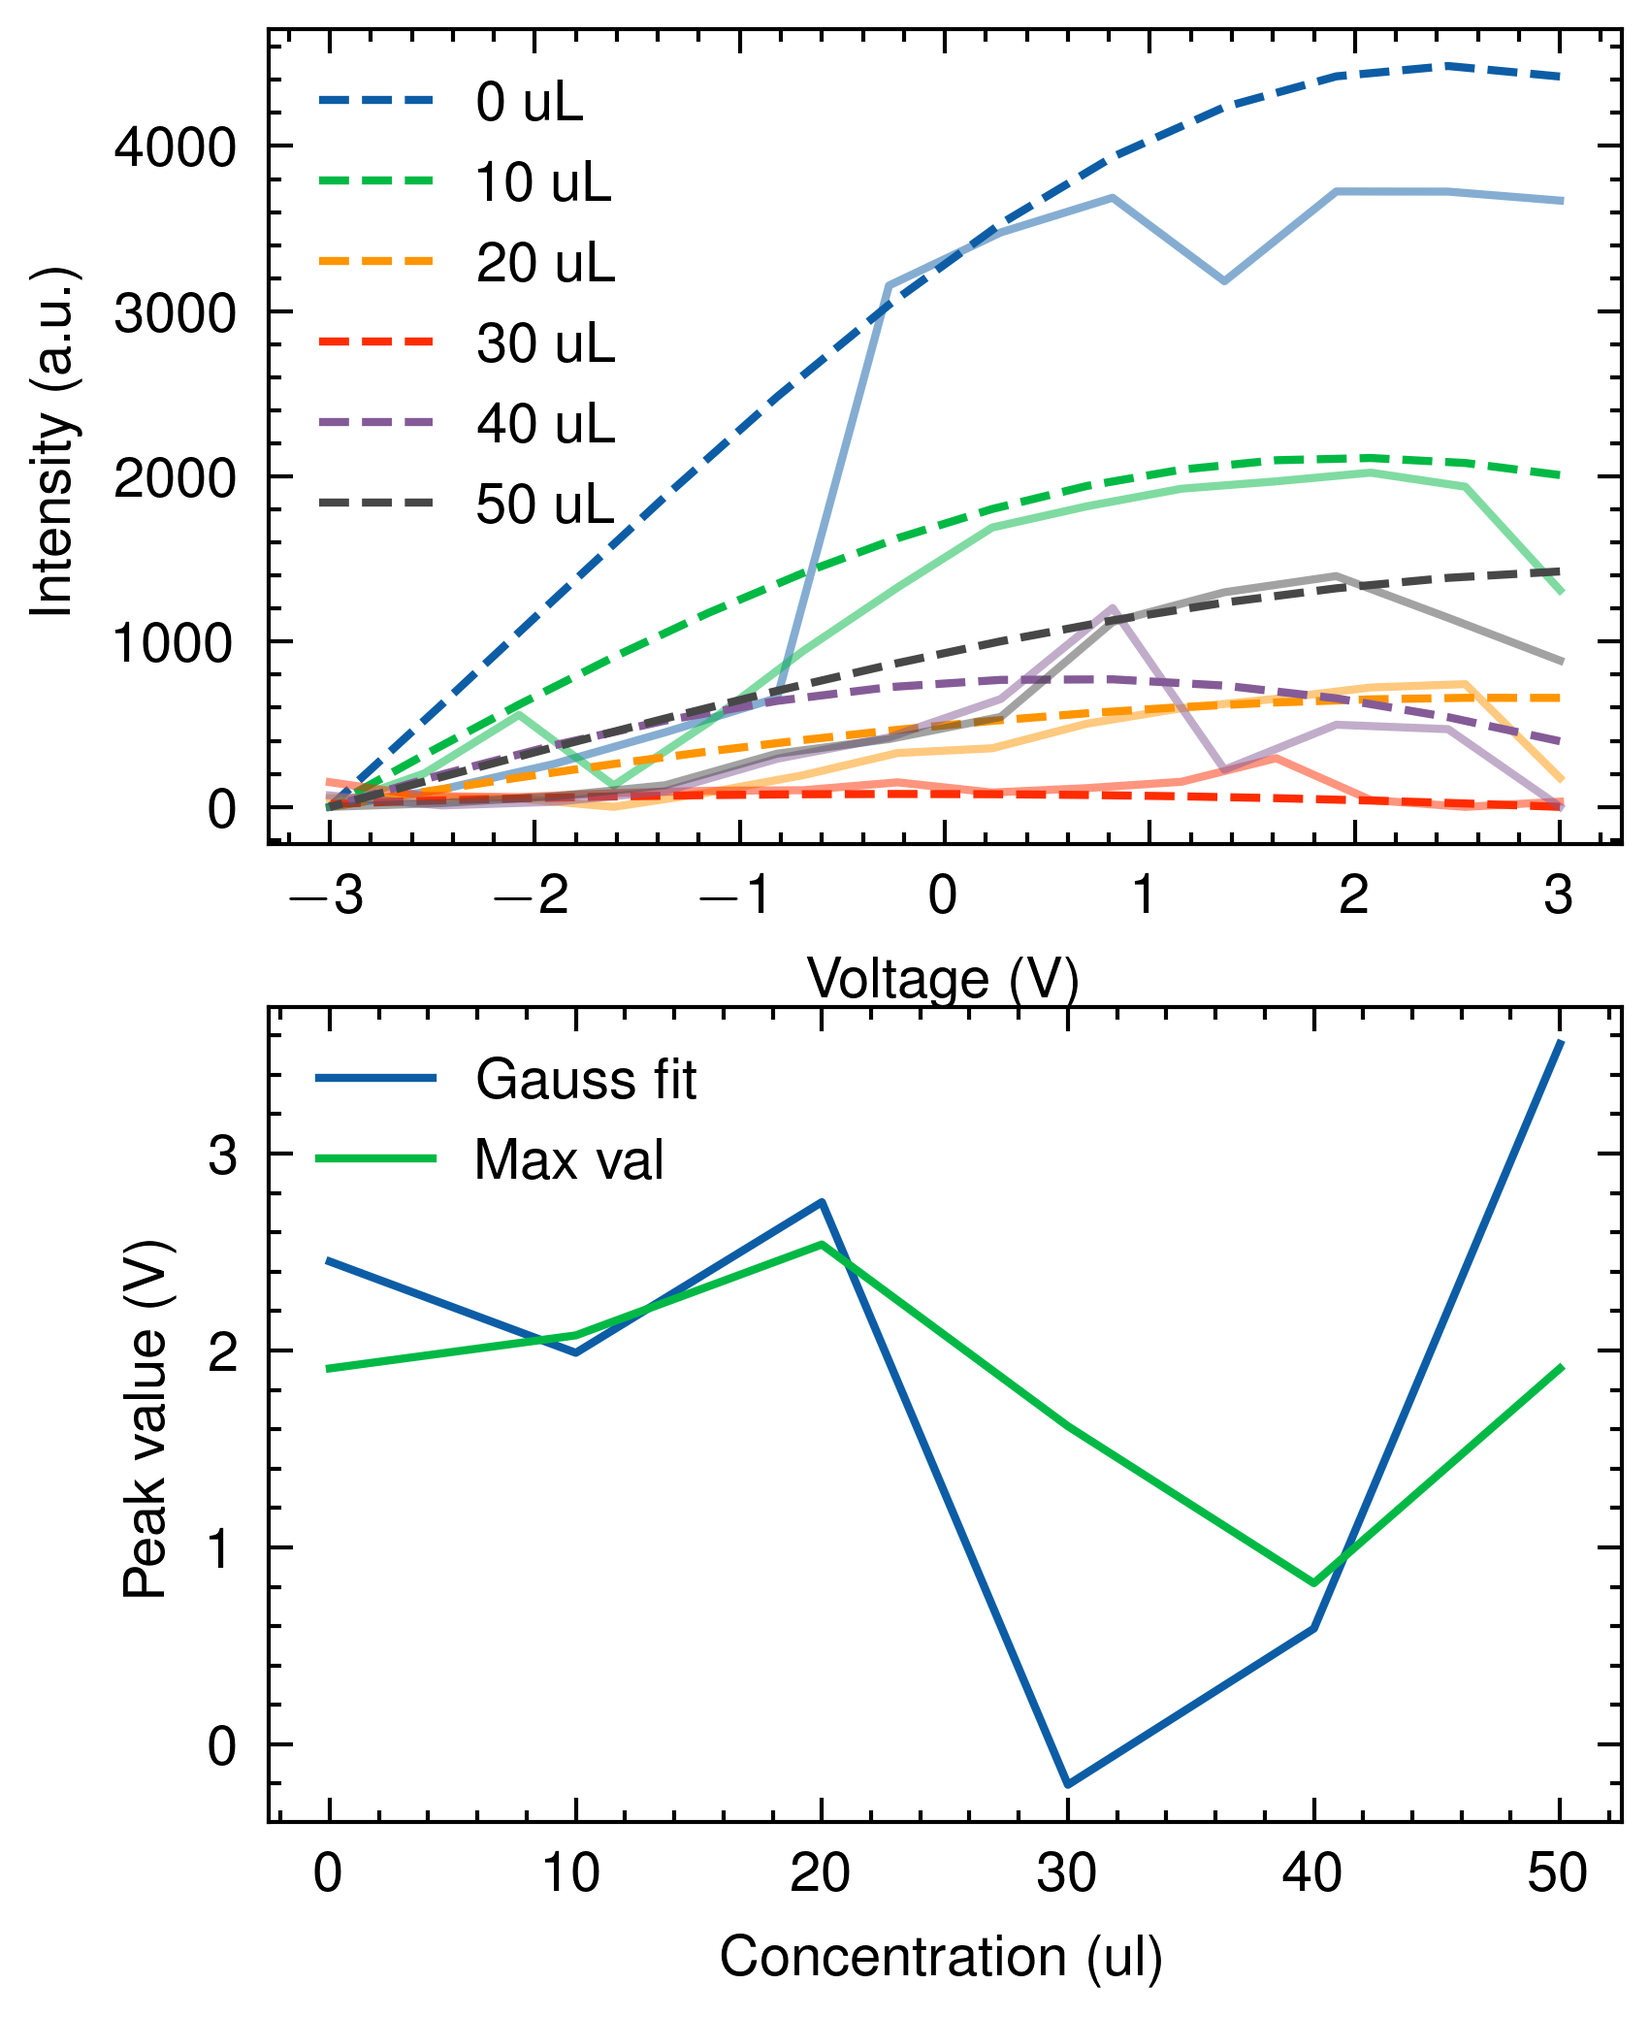
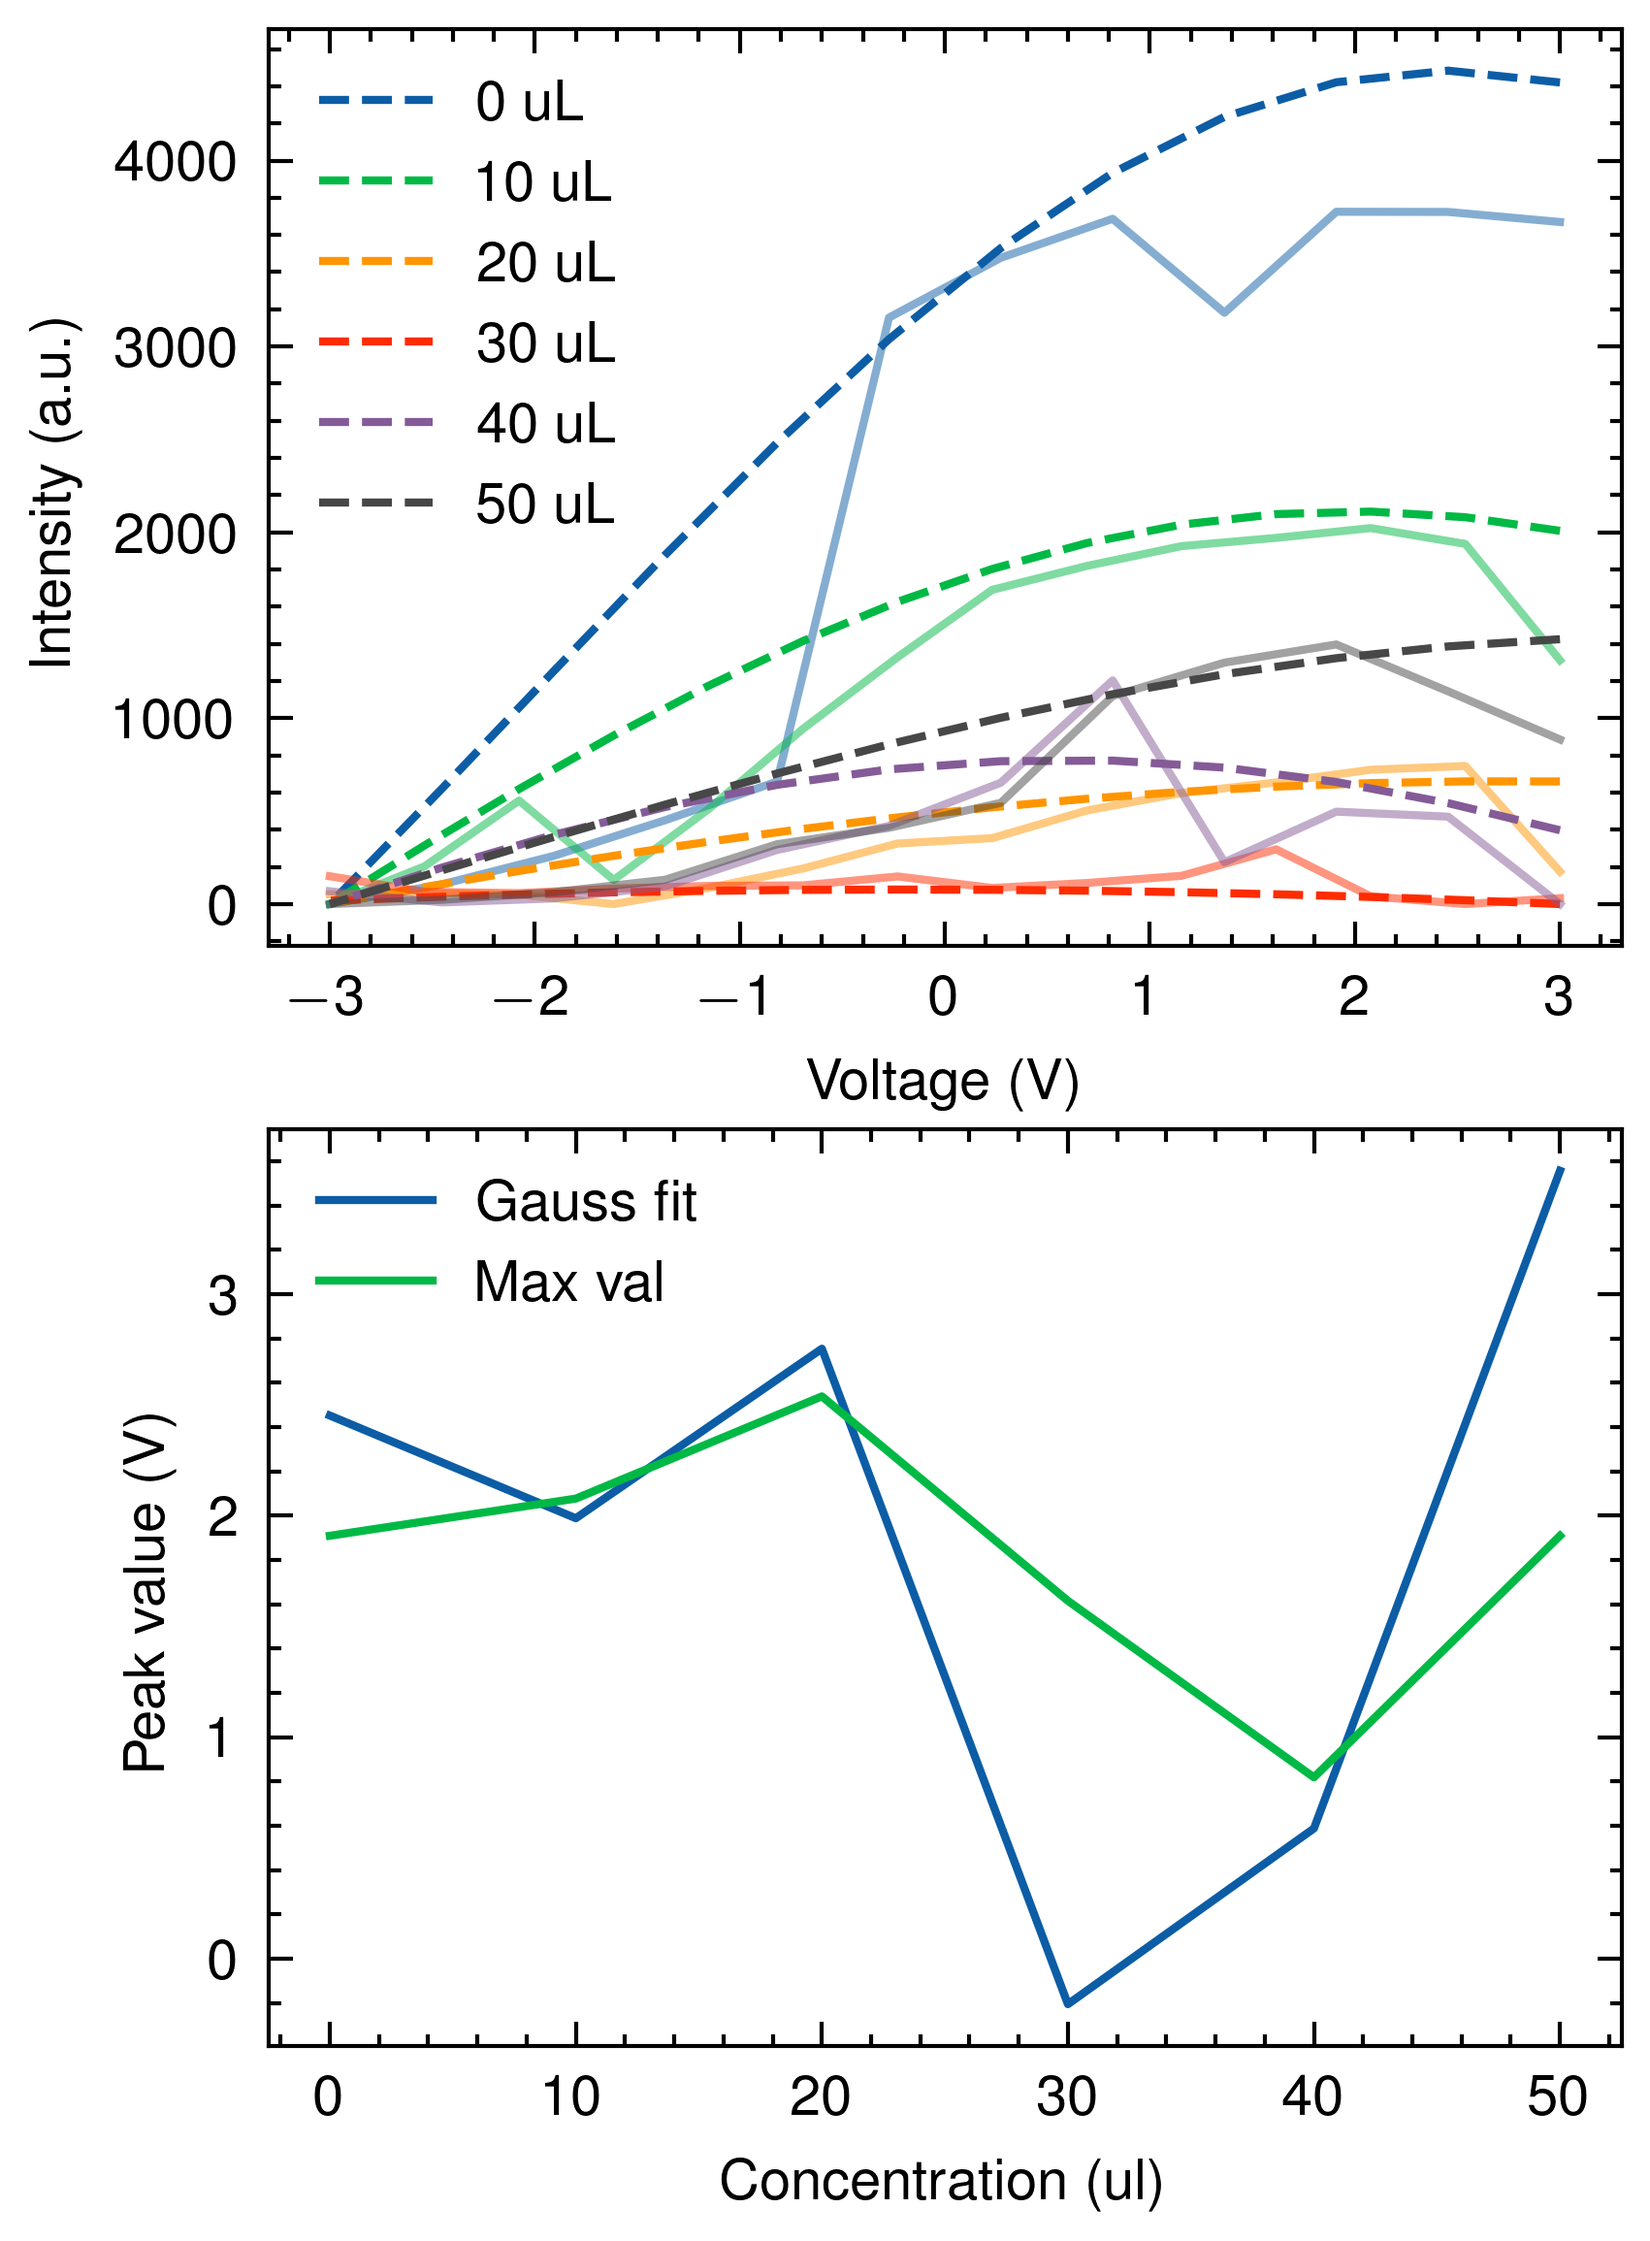
Editing figure sizes.

diff --git a/Concentration_plot.py b/Concentration_plot.py
@@ -69,7 +69,7 @@ for i in range(len(data)):
 colors = ['#0C5DA5', '#00B945', '#FF9500', '#FF2C00', '#845B97', '#474747', '#9e9e9e']
 x_conc = [0, 10, 20, 30, 40, 50]
 
-fig, (ax, ax1) = plt.subplots(2, 1, figsize=[3, 4])
+fig, (ax, ax1) = plt.subplots(2, 1, figsize=[3, 4.5])
 for i in range(len(data)):
     x_volts = np.linspace(3,-3,len(data[i]))
     
